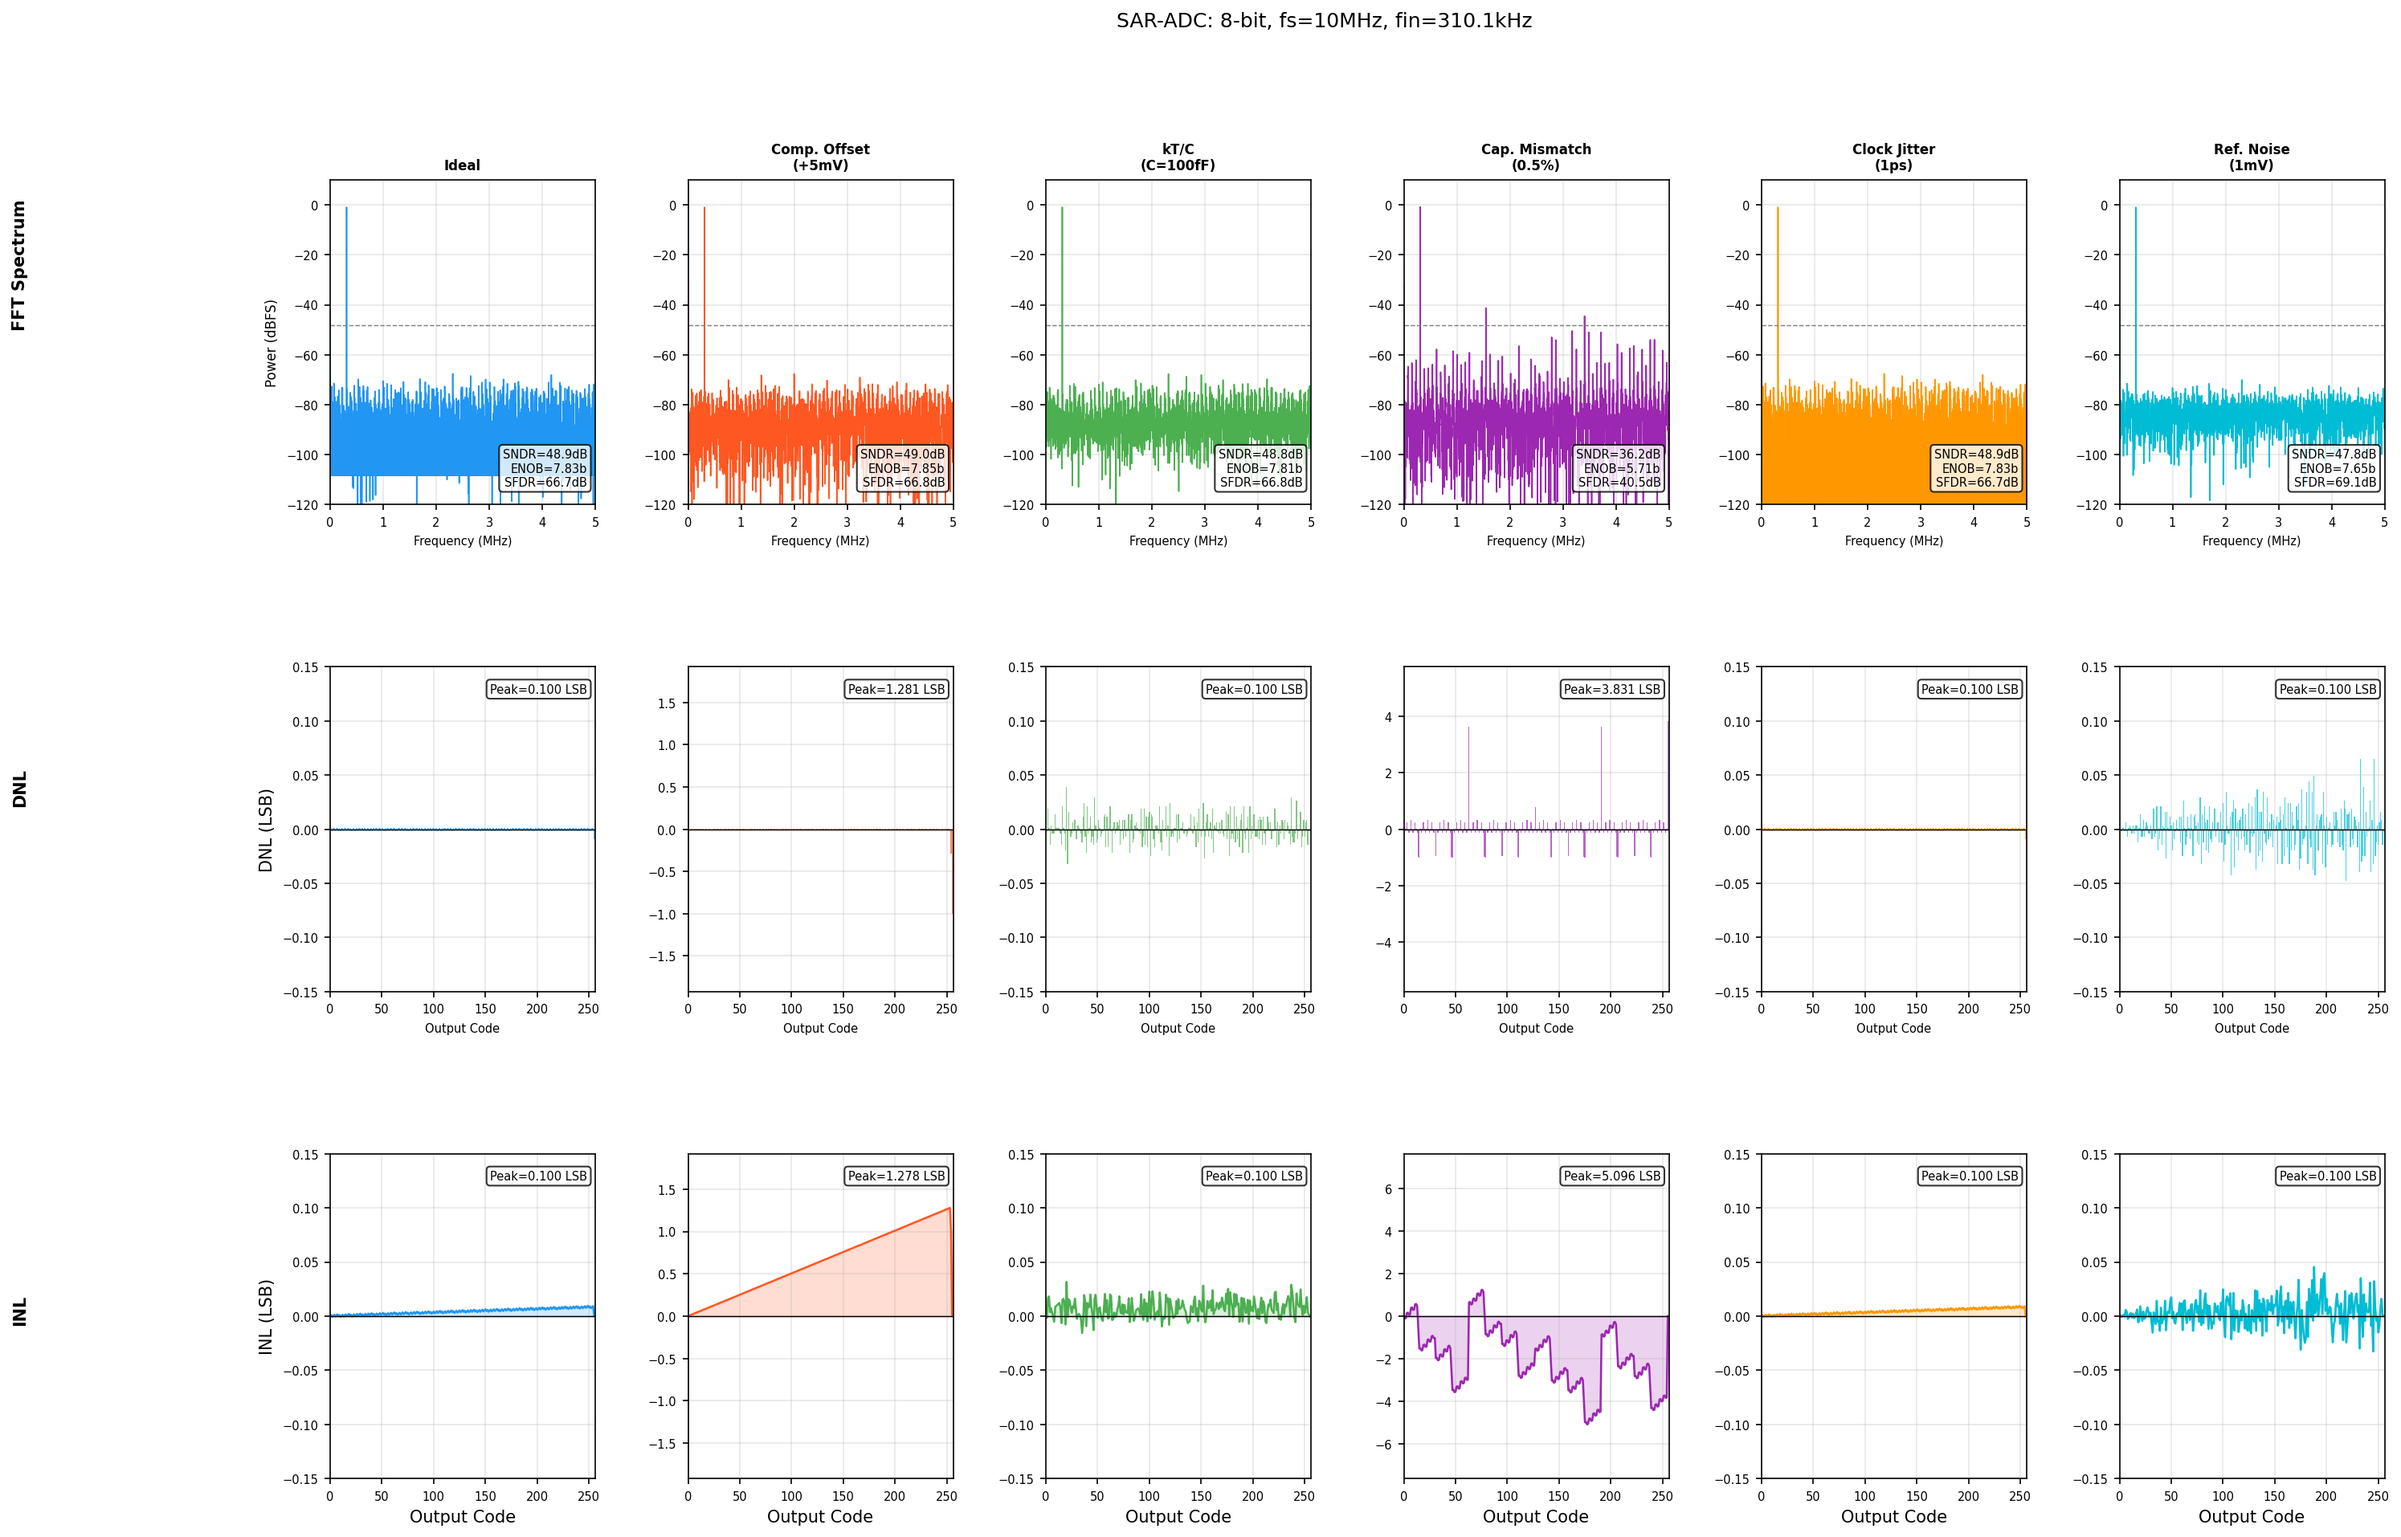
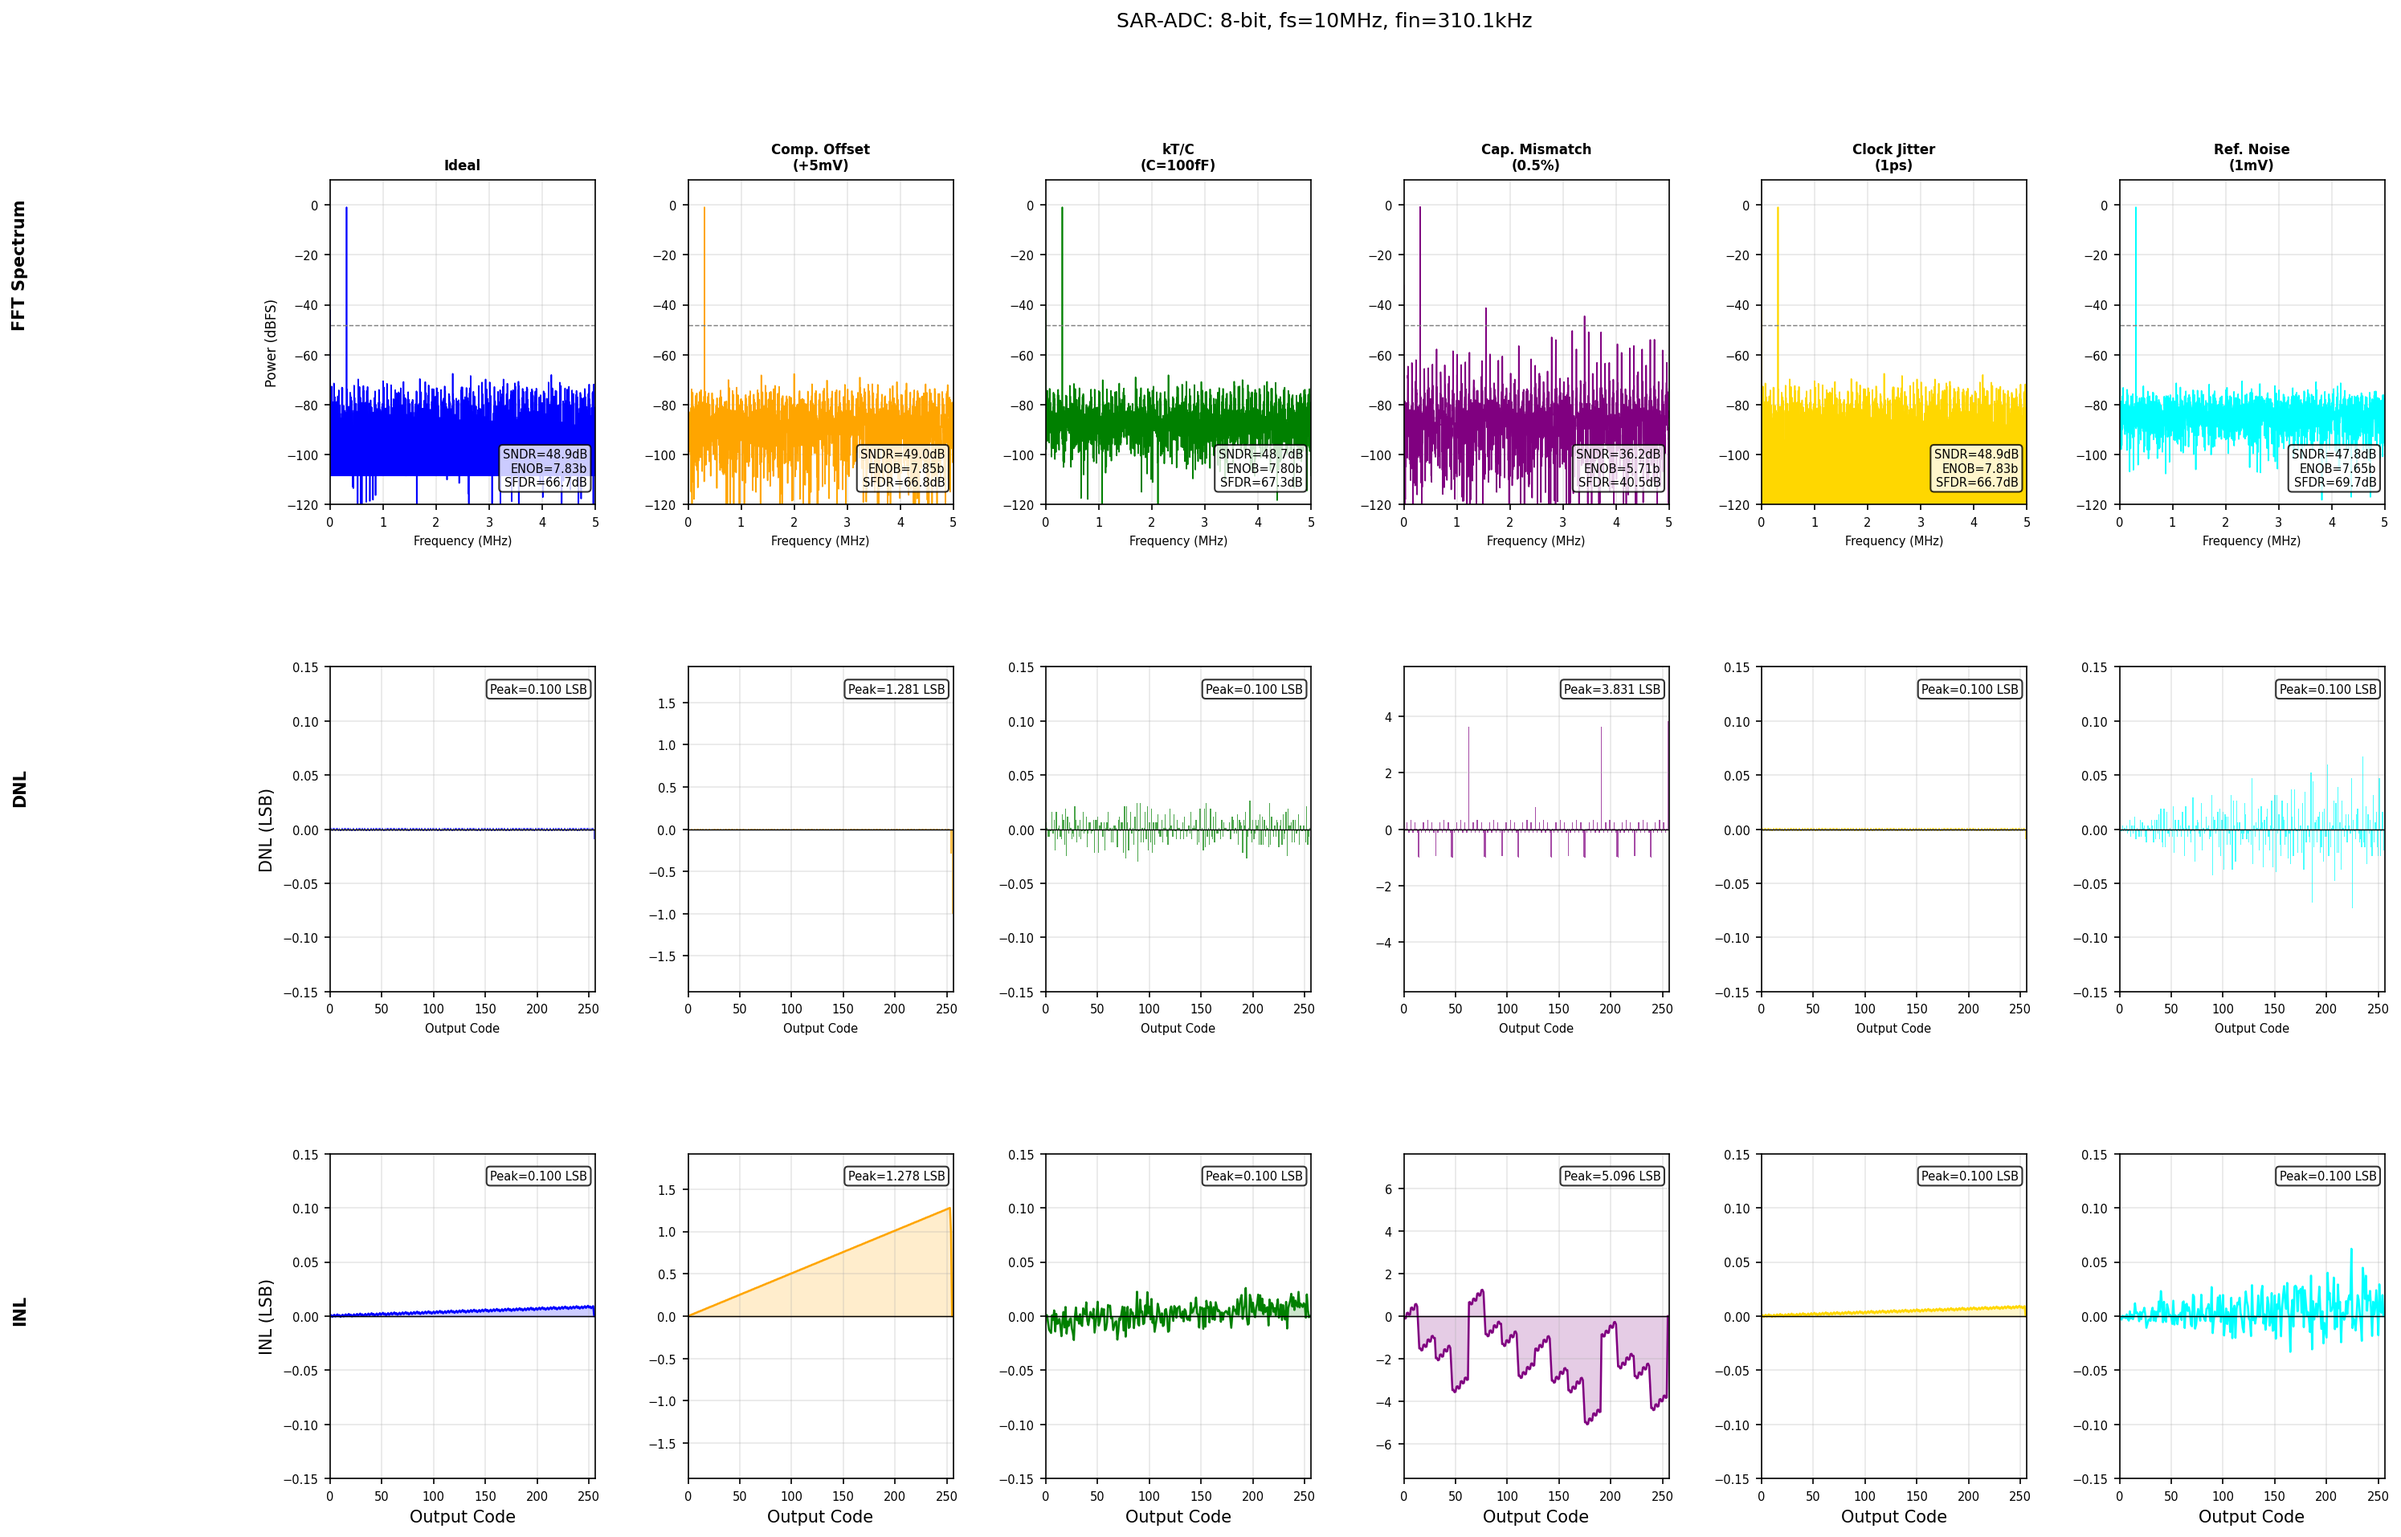
Modified demo.py and test.py for the compute_sndr

diff --git a/sar/test.py b/sar/test.py
@@ -143,20 +143,19 @@ print(f"  DEBUG codes range: {codes_ideal.min()} to {codes_ideal.max()}")
 print(f"  DEBUG unique codes: {len(np.unique(codes_ideal))}")
 
 # FFT
-freqs, power_db = compute_fft(codes_ideal, n_bits=8, fs=10e6)
+freqs, power_db, power = compute_fft(codes_ideal, n_bits=8, fs=10e6)
 check("FFT freqs length",        len(freqs) == N // 2 + 1)
 check("FFT max frequency",       abs(freqs[-1] - 5e6) < 1)
 check("FFT power has peak",      np.max(power_db) > -20)
 
 # SNDR
-sndr, sig_bin = compute_sndr(codes_ideal, n_bits=8)
+sndr, sig_bin = compute_sndr(power)
 check("SNDR > 40 dB for ideal",  sndr > 40)
 check("SNDR < 60 dB for 8-bit",  sndr < 60)
 check("Signal bin detected",     sig_bin > 0)
-sndr, sig_bin = compute_sndr(codes_ideal, n_bits=8)
-print(f"  DEBUG SNDR: {sndr:.2f} dB, sig_bin: {sig_bin}")
+
 # SFDR
-sfdr = compute_sfdr(codes_ideal, n_bits=8)
+sfdr = compute_sfdr(power)
 check("SFDR > SNDR",             sfdr > sndr)
 check("SFDR reasonable range",   20 < sfdr < 100)
 
@@ -173,8 +172,10 @@ check("Ideal DNL peak < 1 LSB",   np.max(np.abs(dnl)) < 1.0)
 check("Ideal INL peak < 1 LSB",   np.max(np.abs(inl)) < 1.0)
 
 # Non-idealities degrade SNDR
-sndr_tn, _ = compute_sndr(codes_tn, n_bits=8)
-sndr_cm, _ = compute_sndr(codes_cm, n_bits=8)
+_, _, power_tn = compute_fft(codes_tn, n_bits=8)
+sndr_tn, _ = compute_sndr(power_tn)
+_, _, power_cm = compute_fft(codes_cm, n_bits=8)
+sndr_cm, _ = compute_sndr(power_cm)
 check("ThermalNoise degrades SNDR",    sndr_tn <= sndr + 1)
 check("CapacitorMismatch degrades SNDR", sndr_cm < sndr)
 

diff --git a/sar/demo.py b/sar/demo.py
@@ -29,14 +29,14 @@ from characterize import (compute_fft, compute_sndr, compute_sfdr,
 # Parameters
 N_BITS    = 8
 VREF      = 1.0
-FS        = 10e6
+FS        = 10e6 # (10 MHz)
 N_SAMPLES = 4096
 M_CYCLES  = 127
 F_IN      = M_CYCLES * FS / N_SAMPLES
 AMPLITUDE = 0.45
 DC_OFFSET = 0.5
 
-COLORS = ['#2196F3', '#FF5722', '#4CAF50', '#9C27B0', '#FF9800', '#00BCD4']
+COLORS = ['blue', 'orange', 'green', 'purple', 'gold', 'cyan']
 BASE   = dict(n_bits=N_BITS, vref=VREF, fs=FS)
 
 
@@ -47,10 +47,11 @@ def make_signal():
 
 def run_adc(adc, signal):
     codes, _, _ = adc.convert_signal(signal)
-    sndr, sig_bin = compute_sndr(codes, N_BITS)
+    freqs, power_db, power = compute_fft(codes, N_BITS, fs=FS)
+    sndr, sig_bin = compute_sndr(power)
     return {
         "sndr"    : sndr,
-        "sfdr"    : compute_sfdr(codes, N_BITS, signal_bin=sig_bin),
+        "sfdr"    : compute_sfdr(power, sig_bin),
         "enob"    : compute_enob(sndr),
         "fft"     : compute_fft(codes, N_BITS, fs=FS),
         "dnl_inl" : compute_dnl_inl(adc),
@@ -58,7 +59,7 @@ def run_adc(adc, signal):
 
 
 def plot_col(gs, col, name, r, color):
-    freqs, power_db = r["fft"]
+    freqs, power_db, power = r["fft"]
     dnl, inl        = r["dnl_inl"]
     codes_axis      = np.arange(len(dnl))
 
